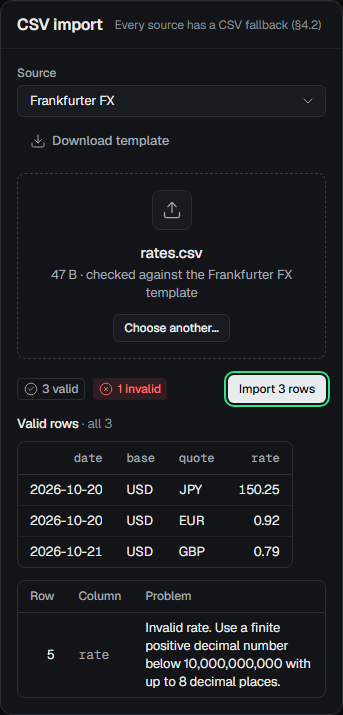
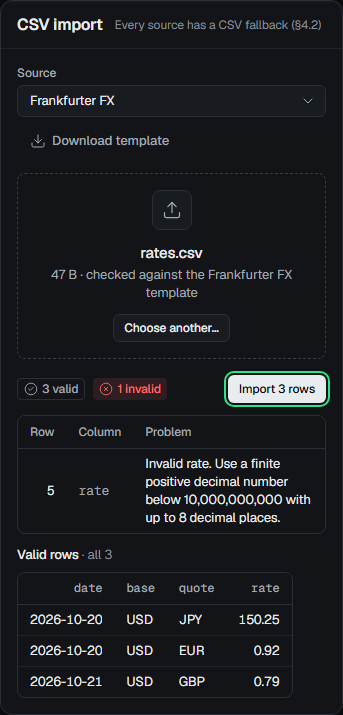
fix(imp-080): put the row sample after the row errors and the import's error line
The batch merge turned two imp-077/078 specs red at 375px: the focusable
valid-rows region sat between Import and the row errors, so Tab no longer
reached Row errors and then Retry. The sample now renders last in the
preview, after the row errors and a failed import's error line: what needs
acting on comes first (Import > Row errors > Retry > Copy error ID > sample).
DEC-174's placement sentence updated; screenshots refreshed, plus a failed
import shot.

diff --git a/apps/web/e2e/data-health/import-rows.spec.ts b/apps/web/e2e/data-health/import-rows.spec.ts
@@ -7,7 +7,7 @@ import { cjPreview, mockAdminApi } from "./fixtures";
 type S = components["schemas"];
 
 // imp-080: the preview shows the API's parsed sample (first 20 valid rows) with no extra click, apart from
-// the row errors and the counts. Fixtures only.
+// the counts and after the row errors. Fixtures only.
 const file = { name: "cj.csv", mimeType: "text/csv", buffer: Buffer.from("name,unit_cost\nLamp,5.00\n") };
 const CJ_COLUMNS = ["cj_product_id", "sku", "name", "unit_cost", "currency", "warehouse_country", "ship_cost_us", "min_days", "max_days", "moq", "observed_for"];
 
@@ -20,7 +20,7 @@ async function checkCj(page: Page, preview: S["ImportPreview"] | (() => S["Impor
   return panel;
 }
 
-test("the first 20 of 1,284 valid rows show as parsed, in template order, apart from the row errors", async ({ page }) => {
+test("the first 20 of 1,284 valid rows show as parsed, in template order, after the row errors", async ({ page }) => {
   await mockAdminApi(page);
   const panel = await checkCj(page, cjPreview);
   const sample = panel.getByRole("region", { name: "Valid rows · first 20 of 1,284" });
@@ -50,8 +50,11 @@ test("the first 20 of 1,284 valid rows show as parsed, in template order, apart 
   await expect(sample.locator("[role=status], [role=alert], [aria-live]")).toHaveCount(0);
   await expect(panel.getByRole("status")).toHaveText(/^1,284 valid rows · 2 invalid rows · 1 blank line skipped\. Importing into CJ/);
 
-  // Keyboard: Tab from Import reaches the sample with a visible ring, and End scrolls to its last row.
+  // Keyboard: the row errors come first (they are what to act on), then the sample with a visible ring;
+  // End scrolls it to its last row.
   await panel.getByRole("button", { name: "Import 1,284 rows" }).focus();
+  await page.keyboard.press("Tab");
+  await expect(panel.getByRole("region", { name: "Row errors" })).toBeFocused();
   await page.keyboard.press("Tab");
   await expect(sample).toBeFocused();
   await expect(sample).toHaveCSS("outline-style", "solid");

diff --git a/apps/web/e2e/data-health/import-rows-screenshots.spec.ts b/apps/web/e2e/data-health/import-rows-screenshots.spec.ts
@@ -3,7 +3,7 @@ import { expect, test } from "@playwright/test";
 import { cjPreview, mockAdminApi } from "./fixtures";
 
 // imp-080 owner review screenshots of the parsed row sample, from fixtures only: 1440px and 375px, dark and
-// light; Frankfurter FX with all 3 valid rows, and CJ (check only) with the first 20 of 1,284, keyboard-focused.
+// light; Frankfurter FX with all 3 valid rows (then a failed import), and CJ (check only) with the first 20 of 1,284, keyboard-focused.
 // Run with `pnpm --filter web e2e:screenshots e2e/data-health/import-rows`; output goes to docs/screenshots/imp-080/.
 const OUT = "../../docs/screenshots/imp-080";
 const file = { name: "rates.csv", mimeType: "text/csv", buffer: Buffer.from("date,base,quote,rate\n2026-10-20,USD,JPY,150.25\n") };
@@ -31,10 +31,17 @@ for (const theme of ["dark", "light"] as const) {
       await expect(panel.getByRole("region", { name: "Valid rows · all 3" })).toBeVisible();
       await shot("fx-all");
 
+      // A failed import: its error line and Retry sit above the sample (what to act on comes first).
+      await page.route(/\/import$/, (route) => route.abort("connectionrefused"));
+      await panel.getByRole("button", { name: "Import 3 rows" }).click();
+      await panel.getByRole("button", { name: "Retry" }).focus();
+      await shot("fx-import-failed");
+
       await page.route(/\/import\/preview$/, (route) => route.fulfill({ json: cjPreview }));
       await panel.getByLabel("Source").selectOption("cj");
       const sample = panel.getByRole("region", { name: "Valid rows · first 20 of 1,284" });
       await panel.getByRole("button", { name: "Import 1,284 rows" }).focus();
+      await page.keyboard.press("Tab"); // the row errors come first
       await page.keyboard.press("Tab");
       await expect(sample).toBeFocused();
       await shot("cj-first-20");

diff --git a/apps/web/src/components/data-health/import-panel.tsx b/apps/web/src/components/data-health/import-panel.tsx
@@ -207,6 +207,8 @@ export function ImportPanel({ onOpen }: { onOpen: (key: string) => void }) {
             />
           )}
           {commit.isError && <ErrorLine error={commit.error} retry={importFile} fallback={IMPORT_FAILED} />}
+          {/* Last, in reading and Tab order: row errors and a failed import's Retry are what to act on (DEC-174). */}
+          {preview.data && file && preview.data.rows.length > 0 && <RowSample preview={preview.data} />}
           {outcome && (
             <div
               className={cn(
@@ -284,7 +286,6 @@ function PreviewResult({
           {blocker}
         </p>
       )}
-      {preview.rows.length > 0 && <RowSample preview={preview} />}
       {preview.errors.length > 0 && (
         <div tabIndex={0} role="region" aria-label="Row errors" className="max-h-64 overflow-auto rounded-lg border border-border">
           <table className="w-full border-collapse text-data">

diff --git a/docs/DECISIONS.md b/docs/DECISIONS.md
@@ -1451,7 +1451,7 @@ Superseded review defaults, not given entries: default #0 (move the repo) is don
 
 ### DEC-174 · Import preview shows the API's parsed row sample, ordered from the rows themselves
 **2026-10-23 · proposed (imp-080)** · DEC-117/117b, DEC-145; vault Features/CSV Export & Import, Design/Tables & Data Density
-- **Decision:** the CSV import preview renders `ImportPreview.rows` (the API's first 20 valid rows) between the counts and the row errors, with no extra click, under the heading "Valid rows · first 20 of 1,284" / "all 3" / "1 row". Values show as the API parsed them (no reformatting, money math or re-parsing); a blank optional cell is "—" with "Blank in this row" on hover and for screen readers. Headers are the template's column names. The sample has no live role: the existing polite status still speaks only the counts.
+- **Decision:** the CSV import preview renders `ImportPreview.rows` (the API's first 20 valid rows) with no extra click, last in the preview: after the counts, the row errors and a failed import's error line, so what needs acting on comes first in reading and Tab order (Import → Row errors → Retry → Copy error ID → sample), under the heading "Valid rows · first 20 of 1,284" / "all 3" / "1 row". Values show as the API parsed them (no reformatting, money math or re-parsing); a blank optional cell is "—" with "Blank in this row" on hover and for screen readers. Headers are the template's column names. The sample has no live role: the existing polite status still speaks only the counts.
 - **Column order:** `parse_csv` builds each row in template order and leaves out blank cells, so each row is an ordered subset of the template. The web merges them so a column follows every column some row puts before it; only two columns no sampled row holds together fall back to first-seen order. A column blank in every sampled row is not shown.
 - **Layout:** a focusable, `relative` scroll region (keeps the "—" atom's `sr-only` text from widening the page) that hugs its columns and scrolls inside at 375px; columns whose values are all numbers or digit strings (money, rates, counts, ISO dates) are right-aligned with tabular figures; long text truncates at 16rem with the full value on hover.
 - **Alternatives:** fetching `GET …/import/template` for an exact header (an extra request with its own loading and error states, for a rare ordering tie); hard-coding template columns in the web (drifts from `TEMPLATES`); numbering sample rows (the API sends no file line numbers, and a 1–20 index would read as one).
